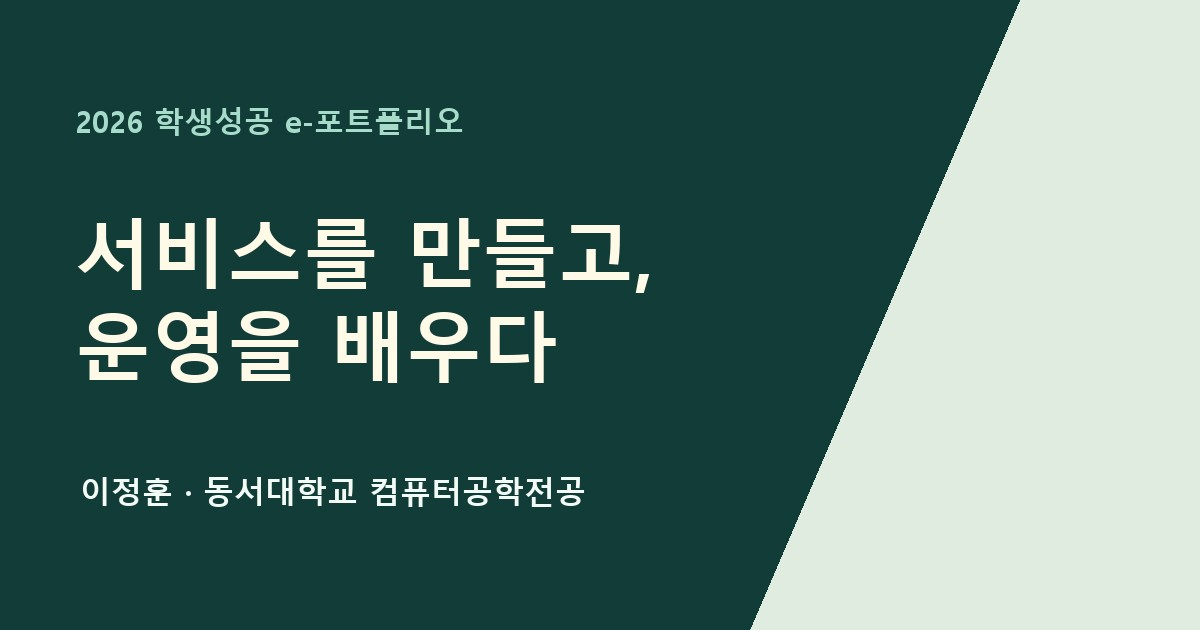
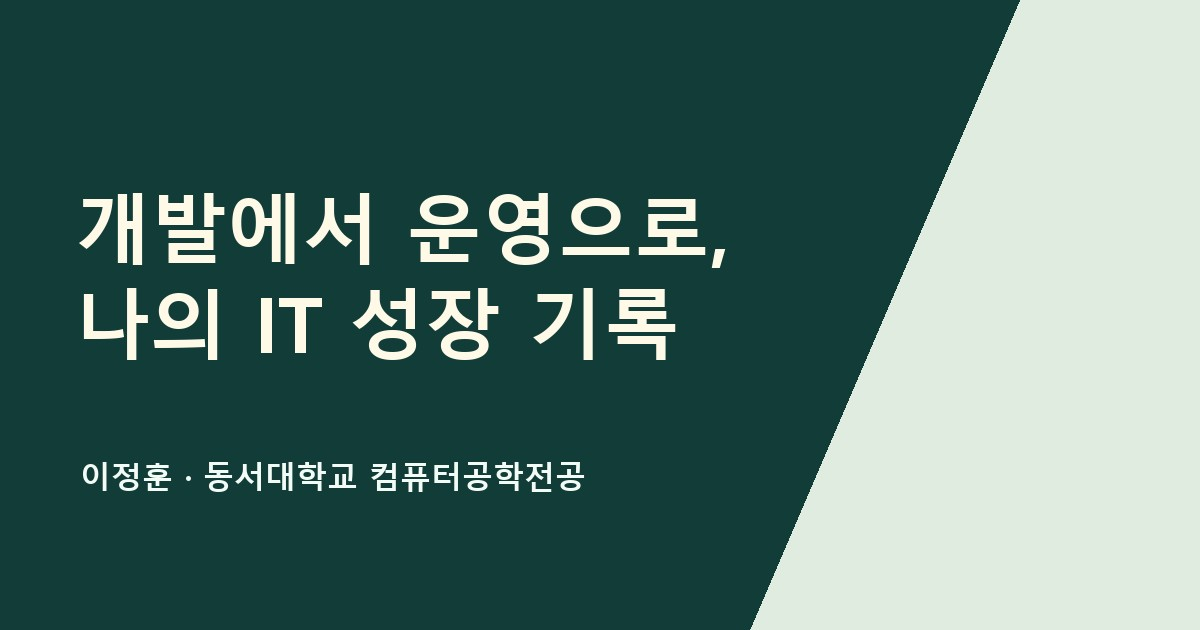
Update portfolio title

Changed region(s): [[0.0617, 0.3016, 0.6167, 0.6032], [0.0617, 0.7238, 0.4933, 0.8143], [0.0617, 0.1508, 0.4008, 0.2111]]

diff --git a/index.html b/index.html
@@ -1,14 +1,14 @@
 <!doctype html><html lang="ko"><head><meta charset="utf-8"><meta name="viewport" content="width=device-width, initial-scale=1">
-<title>서비스를 만들고, 운영을 배우다 | 이정훈</title>
+<title>개발에서 운영으로, 나의 IT 성장 기록 | 이정훈</title>
 <meta name="description" content="이정훈의 2026 학생성공 e-포트폴리오. 전공 학습, 공군 복무, 공공데이터 웹 프로젝트와 MyCloud 개인 서버 구축.">
 <meta name="theme-color" content="#123c38">
 <meta property="og:type" content="website"><meta property="og:locale" content="ko_KR">
-<meta property="og:title" content="서비스를 만들고, 운영을 배우다 | 이정훈">
+<meta property="og:title" content="개발에서 운영으로, 나의 IT 성장 기록 | 이정훈">
 <meta property="og:description" content="2026 학생성공 e-포트폴리오">
 <meta property="og:image" content="./assets/share.jpg"><meta property="og:image:width" content="1200"><meta property="og:image:height" content="630">
-<meta property="og:image:alt" content="서비스를 만들고, 운영을 배우다 · 이정훈">
+<meta property="og:image:alt" content="개발에서 운영으로, 나의 IT 성장 기록 · 이정훈">
 <meta name="twitter:card" content="summary_large_image">
-<link rel="stylesheet" href="./portfolio.css"><link rel="stylesheet" href="./web.css"></head><body><a class="skip" href="#portfolio">본문으로 건너뛰기</a><div class="topbar"><div class="top-inner"><a class="brand" href="#home">이정훈</a><nav aria-label="포트폴리오 섹션"><a href="#profile">소개</a><a href="#learning">전공·자격</a><a href="#mydex">비교과</a><a href="#awards">수상</a><a href="#busan">프로젝트</a><a href="#career-plan">진로</a></nav><a class="download" href="./portfolio.pdf" download="이정훈_2026_학생성공_e포트폴리오_최종제출.pdf">PDF 다운로드</a></div></div><main id="portfolio"><section id="home" class="page cover new-cover"><div class="section-body"><div class="cover-copy"><h1>서비스를 만들고,<br>운영을 배우다</h1><div class="author"><b>이정훈</b><span>동서대학교 컴퓨터공학전공</span></div></div><div class="cover-network" aria-hidden="true"><svg viewBox="0 0 420 425" fill="none" xmlns="http://www.w3.org/2000/svg">
+<link rel="stylesheet" href="./portfolio.css"><link rel="stylesheet" href="./web.css"></head><body><a class="skip" href="#portfolio">본문으로 건너뛰기</a><div class="topbar"><div class="top-inner"><a class="brand" href="#home">이정훈</a><nav aria-label="포트폴리오 섹션"><a href="#profile">소개</a><a href="#learning">전공·자격</a><a href="#mydex">비교과</a><a href="#awards">수상</a><a href="#busan">프로젝트</a><a href="#career-plan">진로</a></nav><a class="download" href="./portfolio.pdf" download="이정훈_2026_학생성공_e포트폴리오_최종제출.pdf">PDF 다운로드</a></div></div><main id="portfolio"><section id="home" class="page cover new-cover"><div class="section-body"><div class="cover-copy"><h1>개발에서 운영으로,<br>나의 IT 성장 기록</h1><div class="author"><b>이정훈</b><span>동서대학교 컴퓨터공학전공</span></div></div><div class="cover-network" aria-hidden="true"><svg viewBox="0 0 420 425" fill="none" xmlns="http://www.w3.org/2000/svg">
 <rect x="15" y="13" width="390" height="399" rx="26" fill="#f4f8ed" stroke="#a6cbb9"/>
 <path d="M45 125H375M45 213H375M45 301H375M115 44V380M210 44V380M305 44V380" stroke="#dfebe1"/>
 <path d="M210 137V180M210 264V300M108 317H312M108 317V344M312 317V344" stroke="#589884" stroke-width="3"/>
